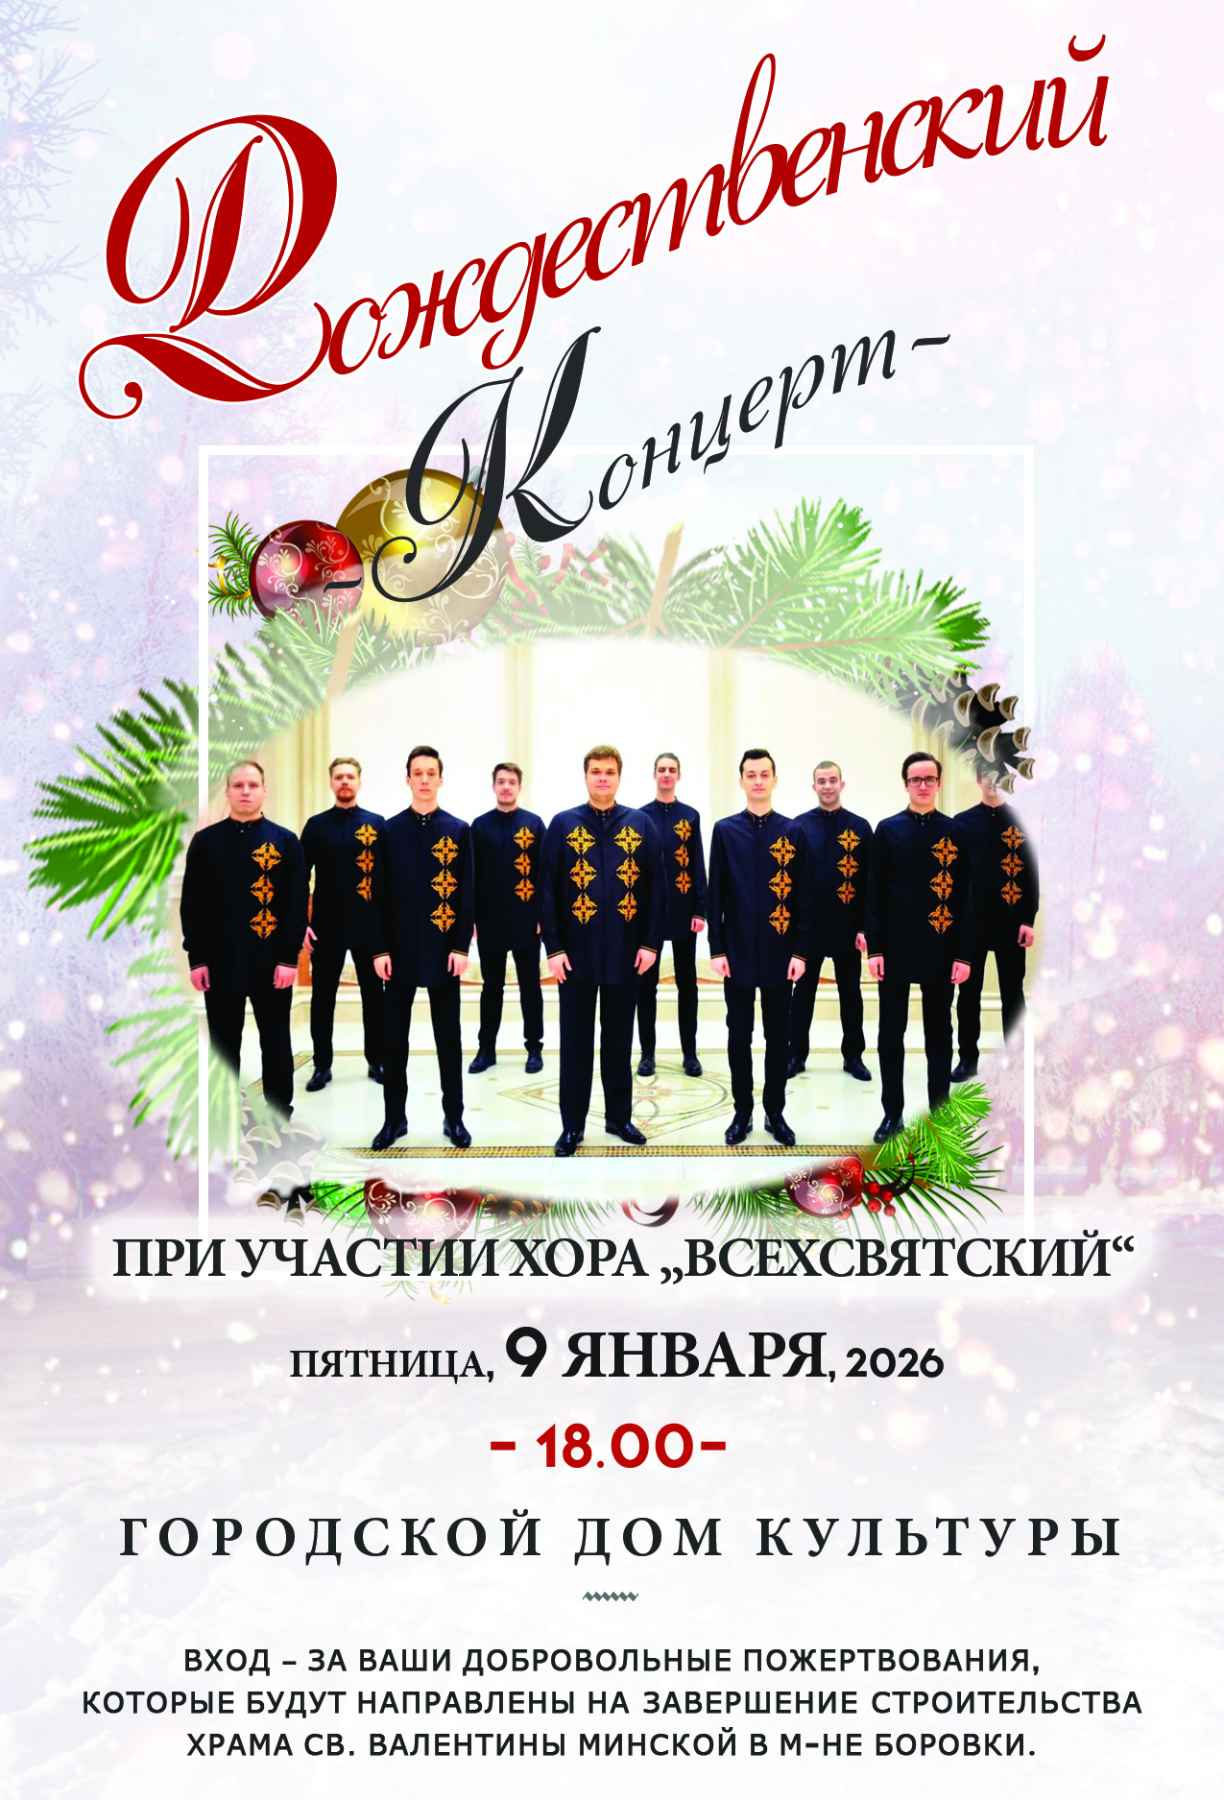
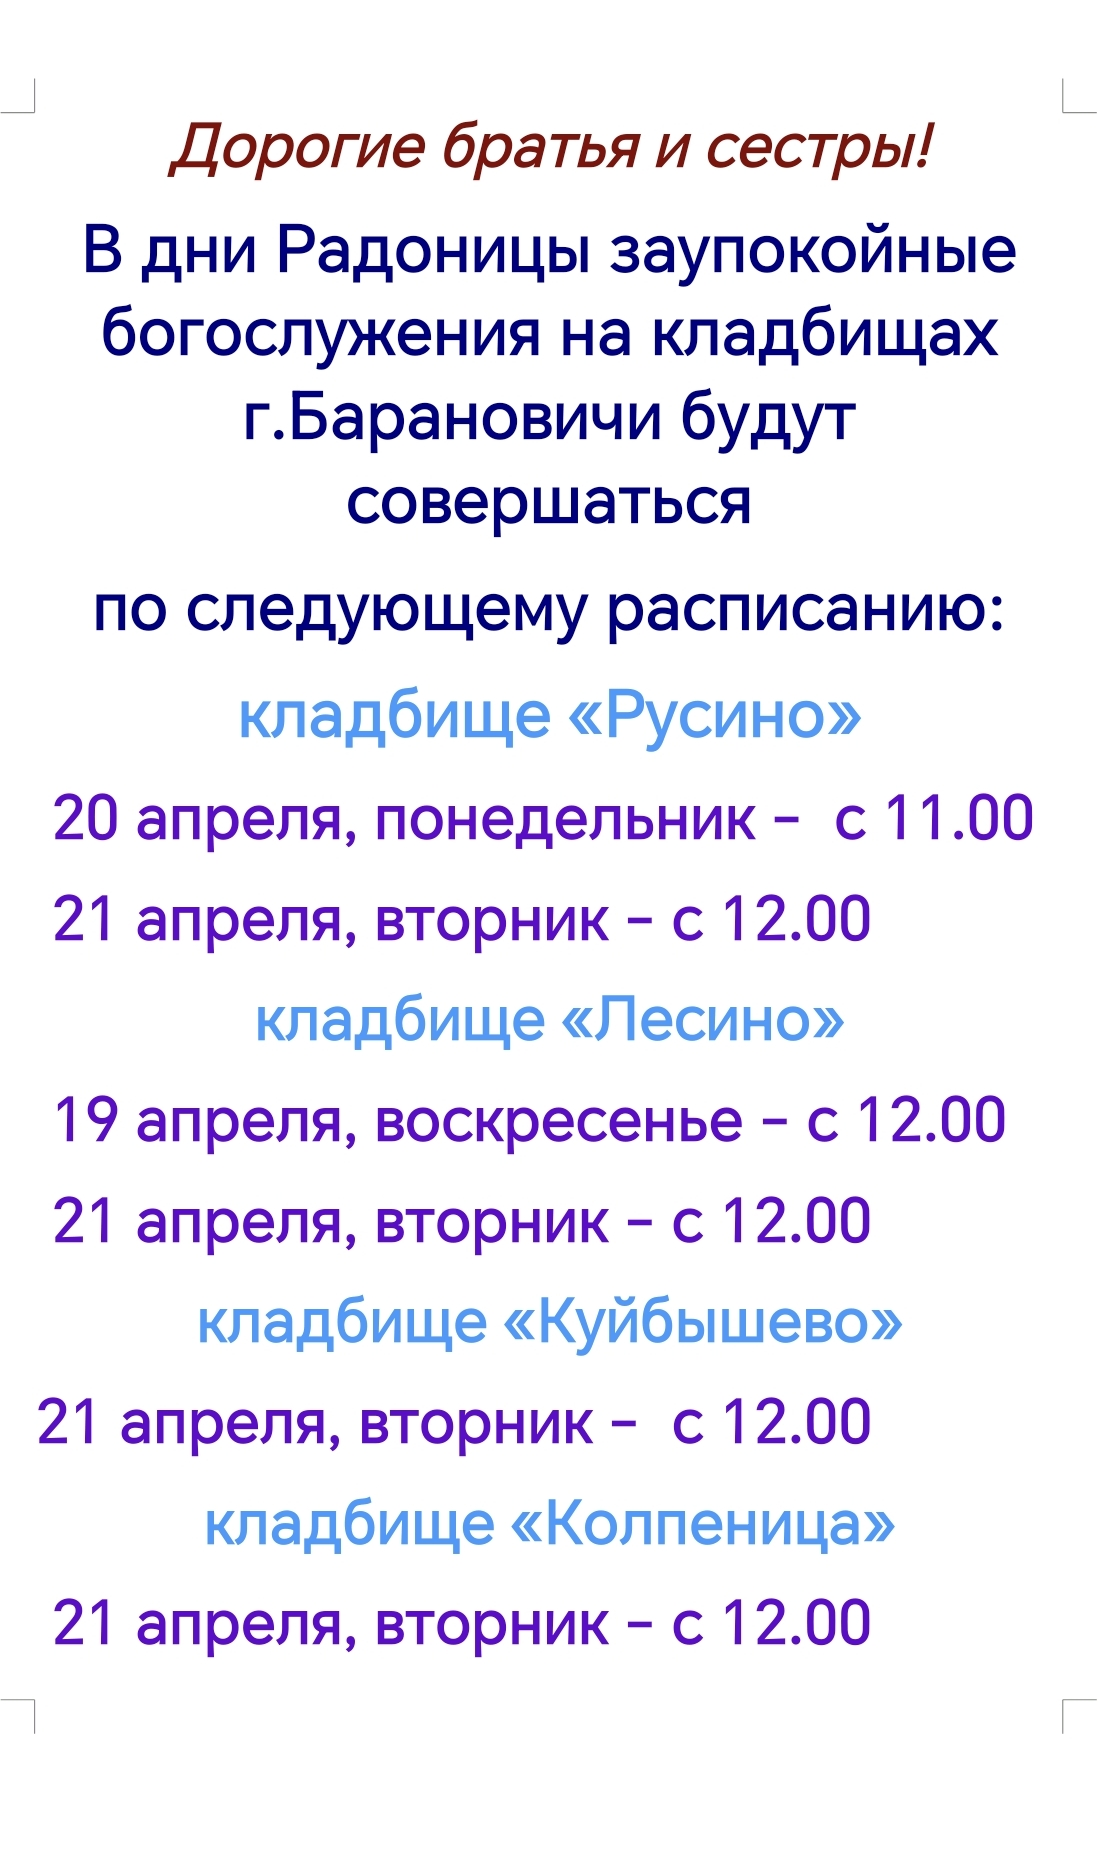
Update

diff --git a/calendartek/calendartek.html b/calendartek/calendartek.html
@@ -76,12 +76,12 @@
 						<div class="two-block__item">
 							<div class="two-block__image">
 								<div class="slider">
-									<!-- <div class="slider__item">
-										<img src="../img/raspisanie/04.jpg" alt="Объявление 1">
+									<div class="slider__item">
+										<img src="../img/raspisanie/02.jpg" alt="Объявление 1">
 									</div>
 									<div class="slider__item">
-										<img src="../img/raspisanie/02.jpg" alt="Объявление 2">
-									</div> -->
+										<img src="../img/raspisanie/04.jpg" alt="Объявление 2">
+									</div><!--  -->
 								</div>
 							</div>
 						</div>
